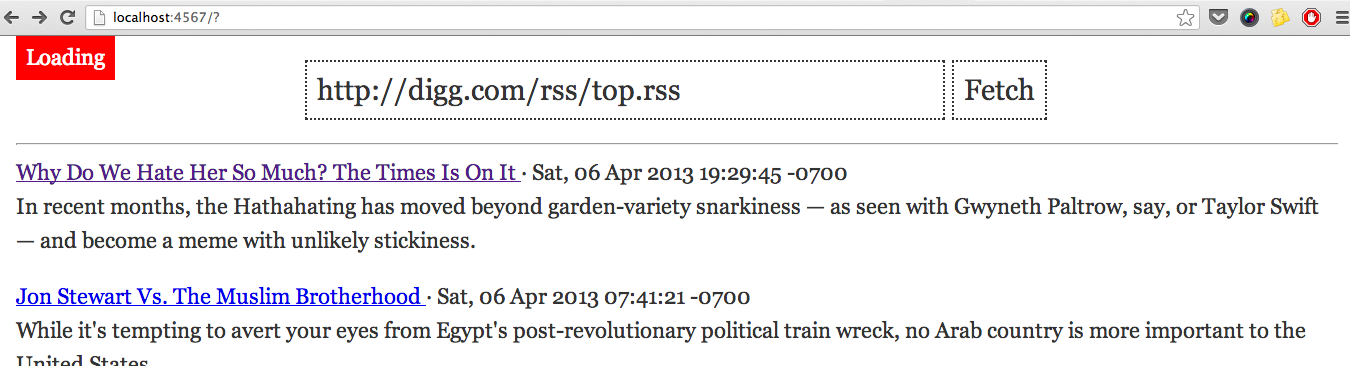
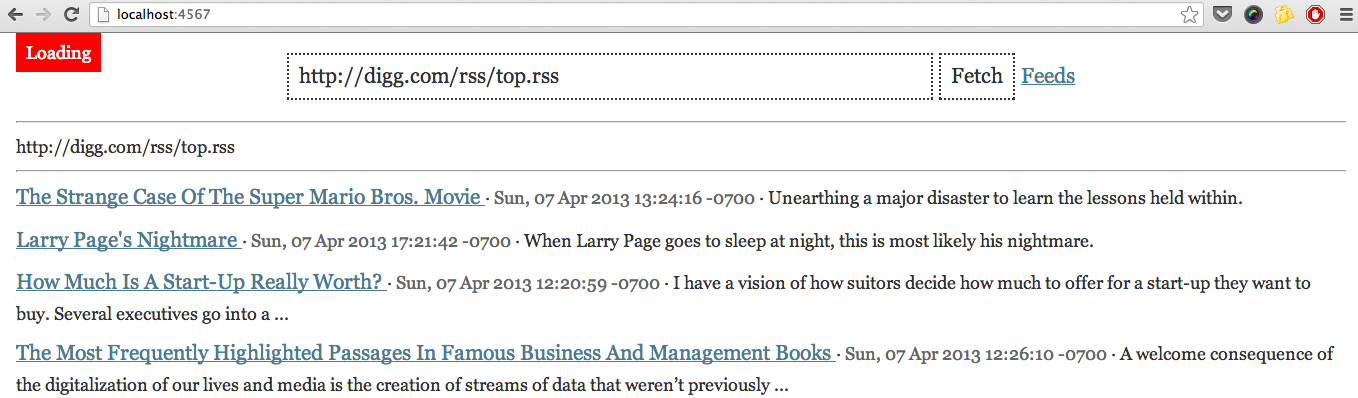
feature: cookie store.

Changed region(s): [[0.0, 0.0, 1.0, 0.7514], [0.0, 0.7814, 0.9956, 1.0]]

diff --git a/public/javascripts/application.js b/public/javascripts/application.js
@@ -21,27 +21,29 @@ angular.module('SharedServices', [])
       };
   })
 
-angular.module('rssReader', ['SharedServices']).
+angular.module('rssReader', ['ngCookies', 'SharedServices']).
 config(function($routeProvider) {
   $routeProvider.
     when('/', {controller:RssController}).
     otherwise({redirectTo:'/'});
 });
 
-function RssController($scope, $http) {
-  $scope.historyDisplay = 'none'
-  $scope.toggleHistory = function() {
-    $scope.historyDisplay === 'none' ? $scope.historyDisplay = '' : $scope.historyDisplay = 'none';
+function RssController($scope, $http, $cookieStore) {
+  $scope.feedsDisplay = 'none'
+  $scope.toggleFeeds = function() {
+    $scope.feedsDisplay === 'none' ? $scope.feedsDisplay = '' : $scope.feedsDisplay = 'none';
   };
 
-  $scope.rssUrls    = [];
+  $scope.rssUrls    = $cookieStore.get("rssUrls") || [];
   $scope.rssEntries = [];
+
   $scope.fetchRss = function() {
     var requestUrl = document.location.protocol + '//ajax.googleapis.com/ajax/services/feed/load?v=1.0&callback=JSON_CALLBACK&num=10&q=' + encodeURIComponent($scope.rssUrl);
     $http.jsonp(requestUrl).
       success(function(data) {
         if(data.responseData != null) {
           $scope.rssUrls.pushUnique($scope.rssUrl);
+          $cookieStore.put("rssUrls", $scope.rssUrls)
           var rssEntries = data.responseData.feed.entries;
           for(var n = 0; n < rssEntries.length; n++) {
             $scope.rssEntries.pushUniqueBy(rssEntries[n], function(a, b) { return a.link === b.link; });
@@ -51,6 +53,11 @@ function RssController($scope, $http) {
         };
       })
   };
+
+  $scope.rssUrls.map(function(obj) {
+    $scope.rssUrl = obj
+    $scope.fetchRss()
+  });
 }
 
 Array.prototype.pushUnique = function (obj) {
